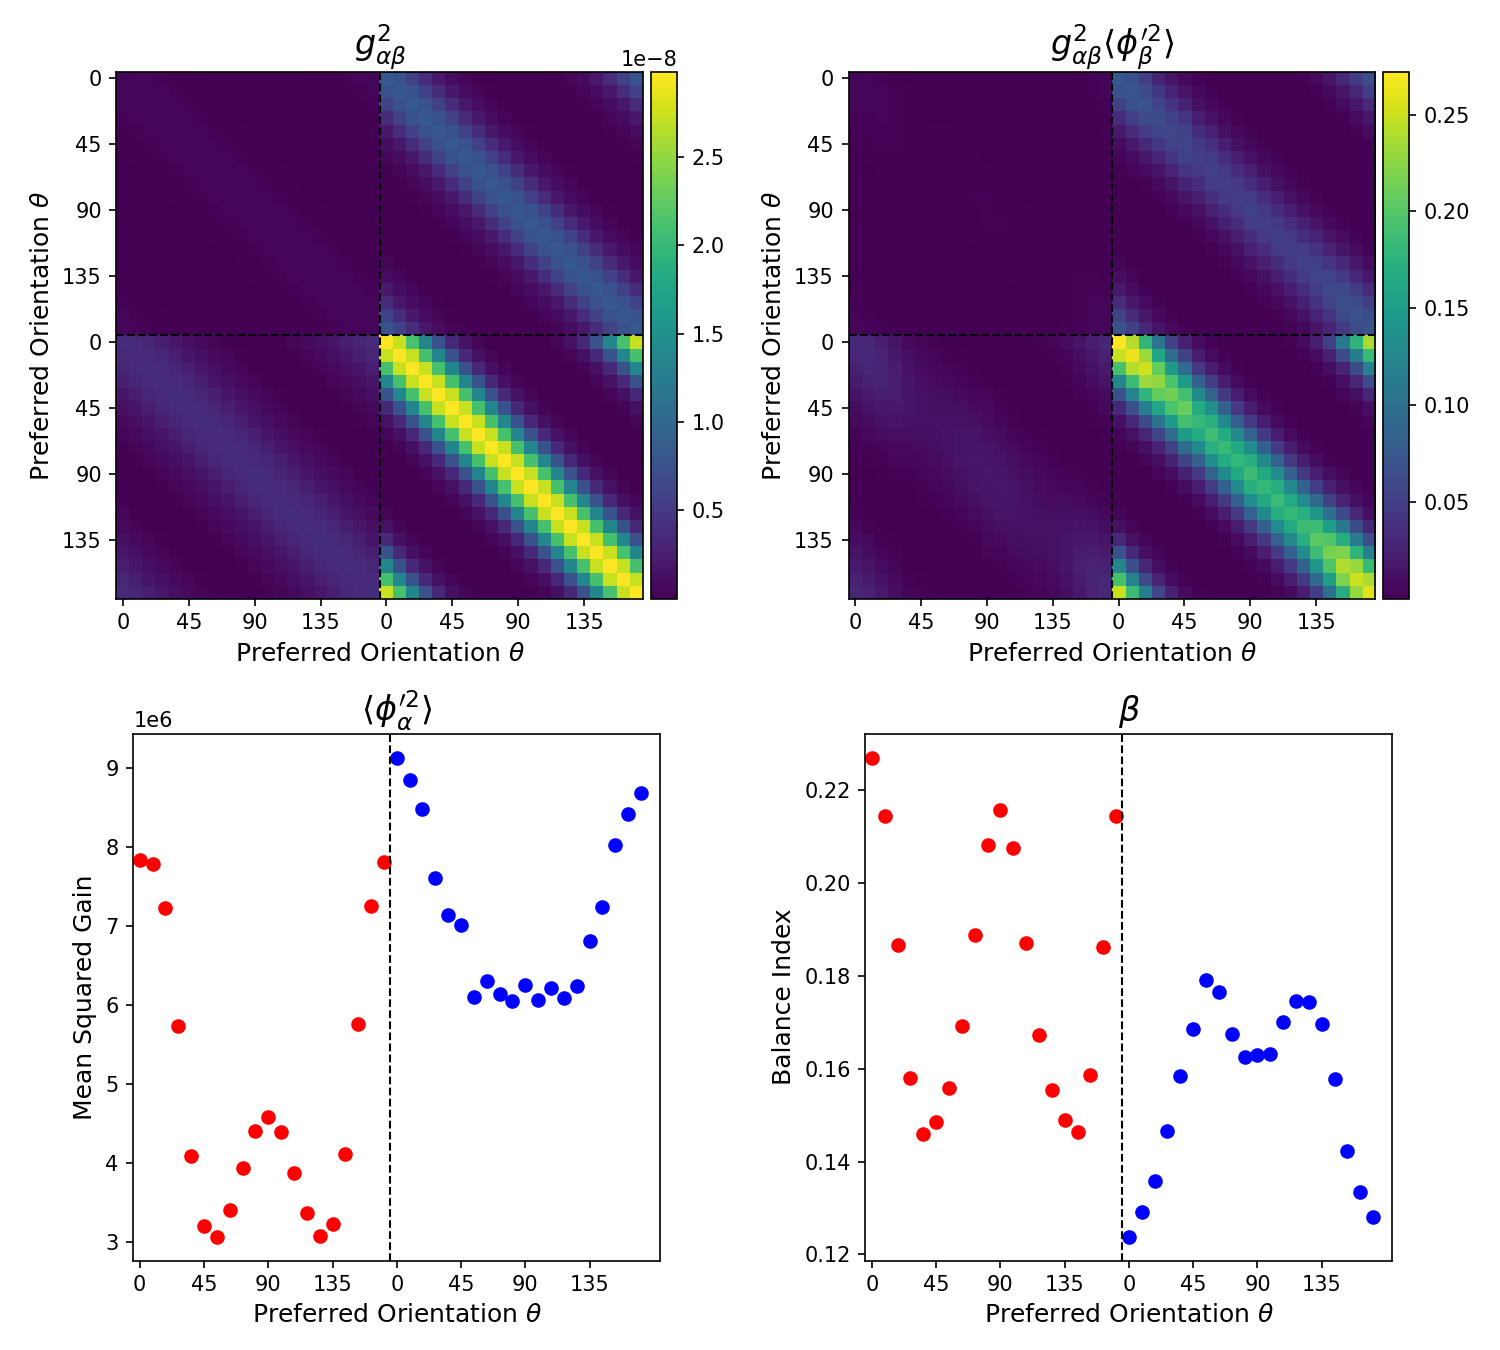
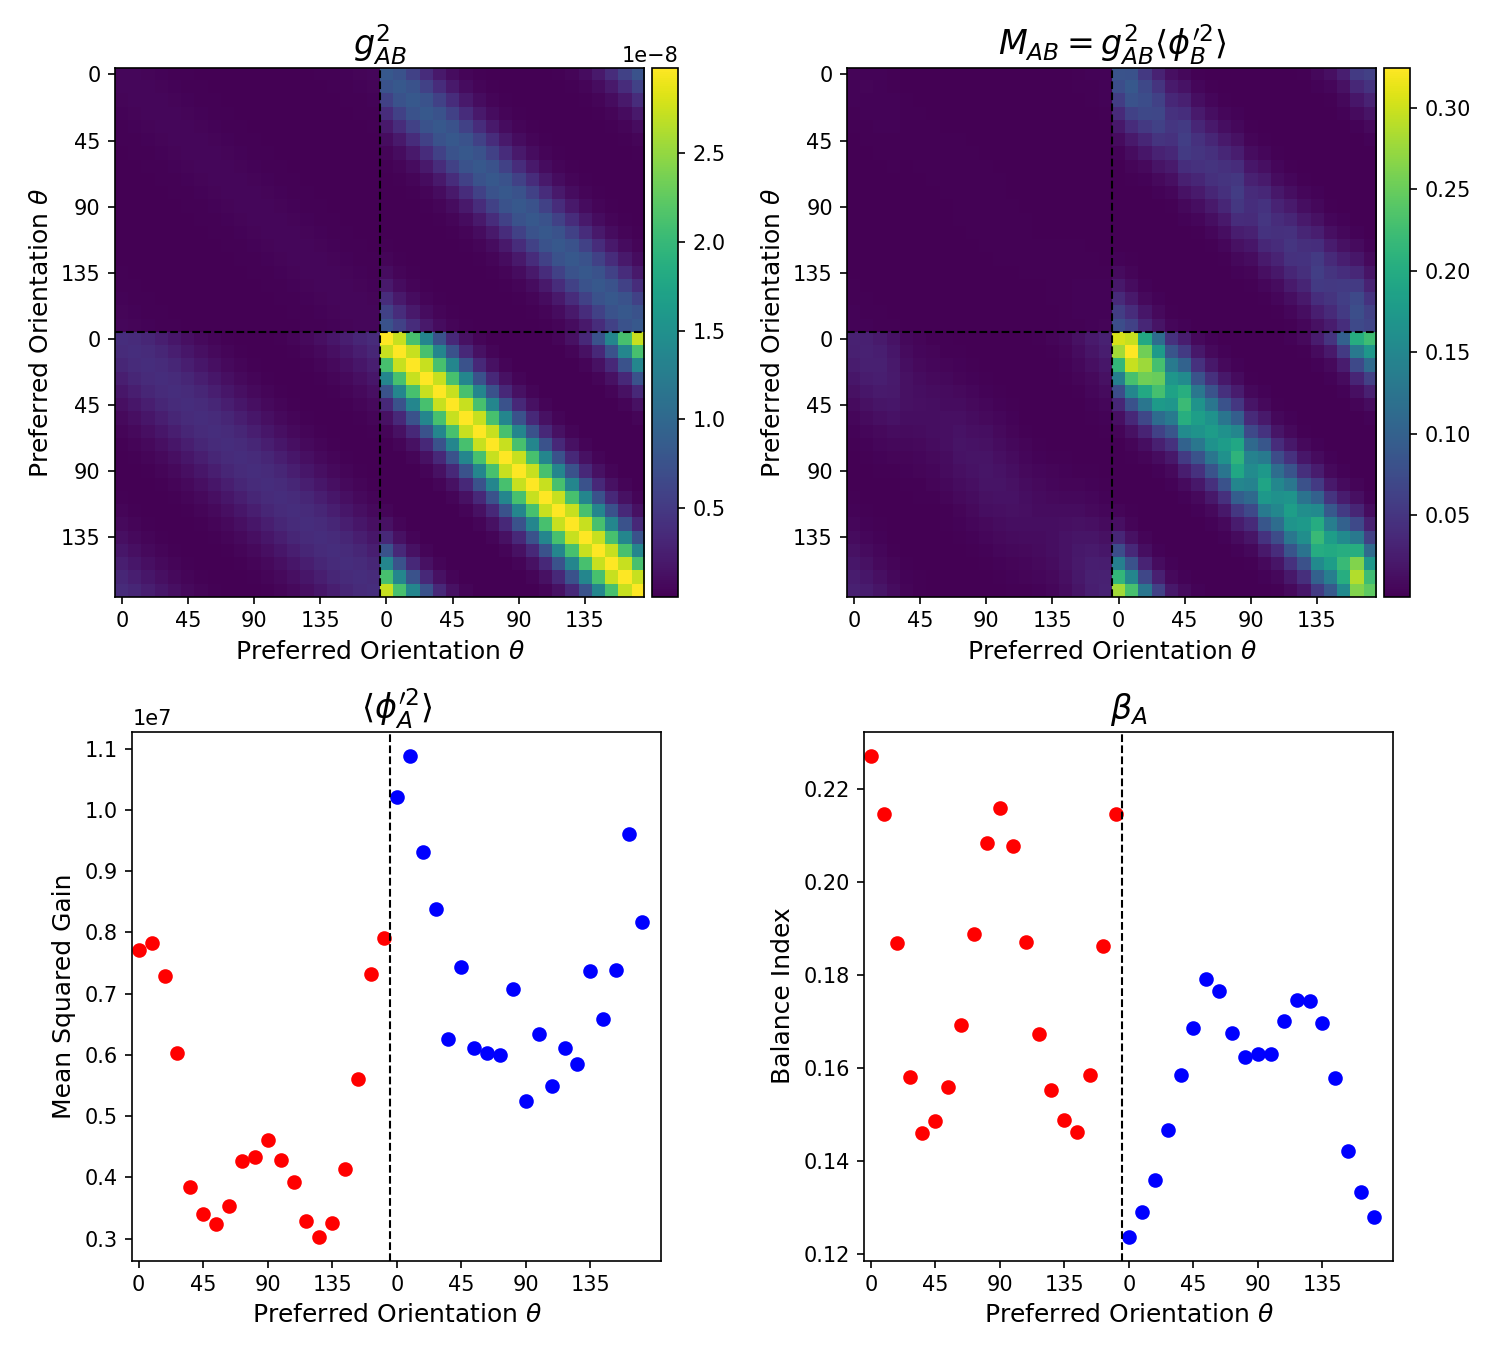
vary K and N

diff --git a/sparse_weights/scripts/sim_vary_rX_N.py b/sparse_weights/scripts/sim_vary_rX_N.py
@@ -22,11 +22,11 @@ import integrate as integ
 parser = argparse.ArgumentParser()
 
 parser.add_argument('--rX_idx', '-r',  help='which rX', type=int, default=0)
-parser.add_argument('--K_idx', '-k',  help='which K', type=int, default=0)
+parser.add_argument('--N_idx', '-n',  help='which N', type=int, default=0)
 args = vars(parser.parse_args())
 print(parser.parse_args())
 rX_idx= args['rX_idx']
-K_idx= args['K_idx']
+N_idx= args['N_idx']
 
 id = (133, 0)
 with open('./../results/results_ring_'+str(id[0])+'.pkl', 'rb') as handle:
@@ -35,7 +35,7 @@ with open('./../results/results_ring_'+str(id[0])+'.pkl', 'rb') as handle:
     CVh = res_dict['best_monk_eX']
     bX = res_dict['best_monk_bX']
     aXs = res_dict['best_monk_aXs']
-#     K = prms['K']
+    K = prms['K']
     SoriE = prms['SoriE']
     SoriI = prms['SoriI']
     # SoriF = prms['SoriF']
@@ -59,20 +59,15 @@ T = torch.linspace(0,8*Nt,round(8*Nt/dt)+1)
 mask_time = T>(4*Nt)
 T_mask = T.cpu().numpy()[mask_time][2::3]
 
-N = 10000
 Nori = 20
-NE = 4*(N//Nori)//5
-NI = 1*(N//Nori)//5
 
 prms['Nori'] = Nori
-prms['NE'] = NE
-prms['NI'] = NI
 
 seeds = np.arange(20)
 
 cAs = aXs[[0,-1]]/bX
 rXs = bX*10**np.arange(-1.4,0.4+0.1,0.2)
-Ks = np.round(500*10**np.arange(-1.4,0.4+0.1,0.2)).astype(np.int32)
+Ns = np.round(10000*10**np.arange(-0.9,0.0+0.01,0.1)).astype(np.int32)
 
 μrEs = np.zeros((2,Nori))
 μrIs = np.zeros((2,Nori))
@@ -91,17 +86,21 @@ print('simulating rX # '+str(rX_idx+1))
 print('')
 rX = rXs[rX_idx]
 
-print('simulating K # '+str(K_idx+1))
+print('simulating N # '+str(N_idx+1))
 print('')
-K = Ks[K_idx]
+N = Ns[N_idx]
+NE = 4*(N//Nori)//5
+NI = 1*(N//Nori)//5
+prms['NE'] = NE
+prms['NI'] = NI
 
 for cA_idx,cA in enumerate(cAs):
     print('simulating contrast # '+str(cA_idx+1))
     print('')
-    K_prms = prms.copy()
-    K_prms['N'] = N
-    K_prms['K'] = K
-    K_prms['J'] = prms['J'] / np.sqrt(K/500)
+    N_prms = prms.copy()
+    N_prms['N'] = N
+    N_prms['K'] = K
+    N_prms['J'] = prms['J'] / np.sqrt(K/500)
 
     rs = np.zeros((len(seeds),N,len(T_mask)))
     mus = np.zeros((len(seeds),N,len(T_mask)))
@@ -115,7 +114,7 @@ for cA_idx,cA in enumerate(cAs):
         
         start = time.process_time()
 
-        net,this_M,this_H,this_B,this_LAS,this_EPS = su.gen_ring_disorder_tensor(seed,K_prms,CVh)
+        net,this_M,this_H,this_B,this_LAS,this_EPS = su.gen_ring_disorder_tensor(seed,N_prms,CVh)
         M = this_M.cpu().numpy()
         H = (rX*(this_B+cA*this_H)*this_EPS).cpu().numpy()
 
@@ -144,8 +143,8 @@ for cA_idx,cA in enumerate(cAs):
     start = time.process_time()
 
     for nloc in range(Nori):
-        μrIs[cA_idx,nloc] = np.mean(rs[:,net.C_idxs[1][nloc],:])
         μrEs[cA_idx,nloc] = np.mean(rs[:,net.C_idxs[0][nloc],:])
+        μrIs[cA_idx,nloc] = np.mean(rs[:,net.C_idxs[1][nloc],:])
         ΣrEs[cA_idx,nloc] = np.var(rs[:,net.C_idxs[0][nloc],:])
         ΣrIs[cA_idx,nloc] = np.var(rs[:,net.C_idxs[1][nloc],:])
         μhEs[cA_idx,nloc] = np.mean(mus[:,net.C_idxs[0][nloc],:])
@@ -198,7 +197,7 @@ res_dict['prms'] = prms
 
 res_dict['cAs'] = cAs
 res_dict['rX'] = rX
-res_dict['K'] = K
+res_dict['N'] = N
 
 res_dict['μrEs'] = μrEs
 res_dict['μrIs'] = μrIs
@@ -213,5 +212,5 @@ res_dict['balIs'] = balIs
 res_dict['Mevs'] = Mevs
 res_dict['Lexps'] = Lexps
 
-with open('./../results/vary_rX_{:d}_K_{:d}'.format(rX_idx,K_idx)+'.pkl', 'wb') as handle:
+with open('./../results/vary_rX_{:d}_N_{:d}'.format(rX_idx,N_idx)+'.pkl', 'wb') as handle:
     pickle.dump(res_dict,handle)

diff --git a/sparse_weights/scripts/integrate.py b/sparse_weights/scripts/integrate.py
@@ -87,7 +87,73 @@ def sim_dyn_tensor(rc,T,L,M,H,LAM,E_cond,mult_tau=False):
         return torch.tensor(meanF)
 
     # rates = odeint(ode_fn,torch.zeros_like(H),T[[0,-1]],event_fn=event_fn)
-    rates = odeint(ode_fn,torch.zeros_like(H,dtype=torch.float32),T)
+    rates = odeint(ode_fn,torch.zeros_like(H,dtype=torch.float32),T,method='rk4')
 
     return torch.transpose(rates,0,1),False
 
+def calc_lyapunov_exp_tensor(rc,T,L,M,H,LAM,E_cond,RATEs,NLE,TWONS,TONS,mult_tau=False):
+    device = torch.device('cuda' if torch.cuda.is_available() else 'cpu')
+
+    if len(H) != RATEs.shape[0]:
+        raise("Rates must have shape Ncell x Ntime")
+
+    LAS = LAM*L
+
+    dt = T[1] - T[0]
+    dt_tau_inv = (dt / torch.where(E_cond,rc.tE,rc.tI)).to(device)
+    NT = len(T) - 1
+    NWONS = int(np.round(TWONS/dt))
+    NONS = int(np.round(TONS/dt))
+
+    print('NWONS =',NWONS)
+    print('NT =',NT)
+    print('NONS =',NONS)
+
+    if mult_tau:
+        def calc_mu(RATE,MU):
+            torch.matmul(M,RATE,out=MU)
+            torch.add(MU,H,out=MU)
+            torch.where(E_cond,rc.tE*MU,rc.tI*MU,out=MU)
+            torch.add(MU,LAS,out=MU)
+    else:
+        def calc_mu(RATE,MU):
+            torch.matmul(M,RATE,out=MU)
+            torch.add(MU,H + LAS,out=MU)
+
+    start = time.process_time()
+
+    # Initialize Q
+    Q,_ = torch.linalg.qr(torch.rand(len(H),len(H),dtype=torch.float32))
+    Q = Q[:,:NLE].to(device)
+    R = torch.zeros((NLE,NLE),dtype=torch.float32).to(device)
+    G = torch.zeros(len(H),dtype=torch.float32).to(device)
+    MU = torch.zeros(len(H),dtype=torch.float32).to(device)
+
+    print('Initializing Q took',time.process_time() - start,'s\n')
+
+    Ls = np.zeros(NLE)
+
+    start = time.process_time()
+
+    # Evolve Q
+    for i in range(NT):
+        calc_mu(RATEs[:,i+1],MU)
+        torch.where(E_cond,rc.dphiE_tensor(MU),rc.dphiI_tensor(MU),out=G)
+        Q = (-Q + G[:,None]*torch.matmul(M,Q)) * dt_tau_inv[:,None]
+        # Reorthogonalize Q
+        if (i+1) % NONS == 0:
+            torch.linalg.qr(Q,out=(Q,R))
+            # After warming up, use R to calculate Lyapunov exponents
+            if i > NWONS:
+                Ls += np.log(np.abs(np.diag(R.cpu().numpy())))
+                if np.any(np.isnan(Ls)):
+                    print(R)
+        if i+1 == NWONS:
+            print('Warmup took',time.process_time() - start,'s\n')
+            start = time.process_time()
+
+    print('Full Q evolution took',time.process_time() - start,'s\n')
+
+    Ls /= (NT-NWONS)*dt
+
+    return Ls

diff --git a/sparse_weights/scripts/runjob_sim_vary_rX_K_N.py b/sparse_weights/scripts/runjob_sim_vary_rX_K_N.py
@@ -107,7 +107,48 @@ def runjobs():
                     text_file.write("#SBATCH --account=theory \n")
                 text_file.write("#SBATCH --job-name="+jobname+ "\n")
                 text_file.write("#SBATCH -t 0-11:59  \n")
-                text_file.write("#SBATCH --mem-per-cpu=8gb \n")
+                text_file.write("#SBATCH --mem-per-cpu=12gb \n")
+                text_file.write("#SBATCH --gres=gpu\n")
+                text_file.write("#SBATCH -c 1 \n")
+                text_file.write("#SBATCH -o "+ ofilesdir + "/%x.%j.o # STDOUT \n")
+                text_file.write("#SBATCH -e "+ ofilesdir +"/%x.%j.e # STDERR \n")
+                text_file.write("python  -W ignore " + c1+" \n")
+                text_file.write("echo $PATH  \n")
+                text_file.write("exit 0  \n")
+                text_file.close()
+
+                if cluster=='axon':
+                    os.system("sbatch -p burst " +jobnameDir);
+                else:
+                    os.system("sbatch " +jobnameDir);
+            else:
+                print (c1)
+    
+    r_Vec=range(10)
+    n_Vec=range(10)
+    
+    for r in r_Vec:
+        for n in n_Vec:
+
+            time.sleep(0.2)
+            
+            #--------------------------------------------------------------------------
+            # Make SBTACH
+            inpath = currwd + "/sim_vary_rX_N.py"
+            c1 = "{:s} -r {:d} -n {:d}".format(inpath,r,n)
+            
+            jobname="sim_vary_rX_N"+"-r-{:d}-n-{:d}".format(r,n)
+            
+            if not args2.test:
+                jobnameDir=os.path.join(ofilesdir, jobname)
+                text_file=open(jobnameDir, "w");
+                os.system("chmod u+x "+ jobnameDir)
+                text_file.write("#!/bin/sh \n")
+                if cluster=='haba' or cluster=='moto' or cluster=='burg':
+                    text_file.write("#SBATCH --account=theory \n")
+                text_file.write("#SBATCH --job-name="+jobname+ "\n")
+                text_file.write("#SBATCH -t 0-11:59  \n")
+                text_file.write("#SBATCH --mem-per-cpu=12gb \n")
                 text_file.write("#SBATCH --gres=gpu\n")
                 text_file.write("#SBATCH -c 1 \n")
                 text_file.write("#SBATCH -o "+ ofilesdir + "/%x.%j.o # STDOUT \n")

diff --git a/sparse_weights/scripts/base_network.py b/sparse_weights/scripts/base_network.py
@@ -90,7 +90,7 @@ class BaseNetwork(ABC):
                 self.n = int(n)
         elif np.isscalar(NC):
             if n is None:
-                self.NC = np.ones(1)
+                self.NC = NC*np.ones(1,dtype=int)
                 self.n = 1
             else:
                 self.NC = NC*np.ones(n,dtype=int)
@@ -133,8 +133,6 @@ class BaseNetwork(ABC):
 
     def generate_sparse_rec_conn(self,WKern,K):
         C_full = np.zeros((self.N,self.N),np.float32)
-        W_mean_full = np.zeros((self.N,self.N),np.float32)
-        W_var_full = np.zeros((self.N,self.N),np.float32)
 
         for pstC in range(self.n):
             pstC_idxs = self.C_idxs[pstC]

diff --git a/sparse_weights/scripts/ricciardi.py b/sparse_weights/scripts/ricciardi.py
@@ -373,6 +373,11 @@ class Ricciardi(object):
         # return self.calc_phi_tensor(u,self.tI)
         return self.phi_int_tensor_I(u[None,:])
 
+    def dphiE_tensor(self,u):
+        return d(self.phiE_tensor,u)
+    def dphiI_tensor(self,u):
+        return d(self.phiI_tensor,u)
+
     def phiE(self,u):
         return self.phi_int_E(u)
     def phiI(self,u):
